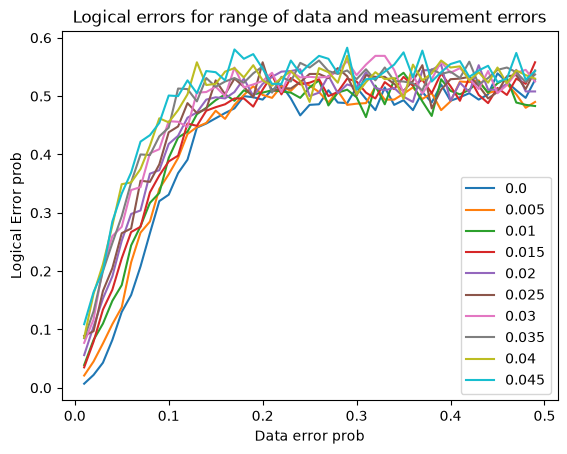
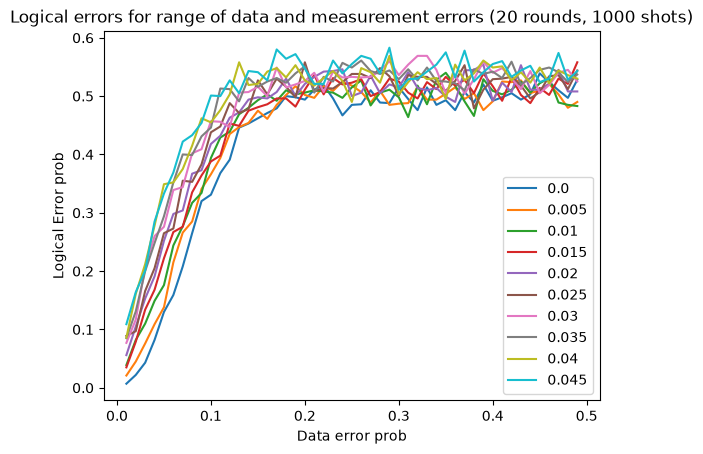
Updating readme

diff --git a/README.md b/README.md
@@ -12,7 +12,7 @@ How does logical error rate change when a decoder's assumed noise model differs 
 - **Stabiliser simulator:** representation and manipulation of stabiliser states and operators.
 - **3-qubit repetition code:** bit-flip noise, syndrome extraction, decoding, and logical-error-rate estimation.
 - **9-qubit Shor code:** stabiliser definitions, physical error tracking, syndrome extraction, and decoding experiments.
-- **Toric code:** stabiliser structure and matching-based decoding, extending the project to a topological quantum error-correcting code.
+- **Toric code:** stabiliser structure and space-time matching-based decoding, extending the project to a topological QECC.
 - **Repeated syndrome extraction:** multiple noisy measurement rounds, detector-event generation, and space-time decoding.
 - **MWPM decoding:** construction of weighted matching graphs and integration with PyMatching.
 
@@ -20,9 +20,7 @@ How does logical error rate change when a decoder's assumed noise model differs 
 
 - Compared the single-round repetition-code logical error rate against the analytical majority-vote result:
 
-  \[
-  P_L = 3p^2 - 2p^3
-  \]
+  $$ P_L = 3p^2 - 2p^3 $$
 
   ![Repetition-code logical error rate](figs/3bit_px.png)
 - Investigated the effects of physical bit-flip noise and syndrome-measurement noise on decoding performance.
@@ -31,6 +29,7 @@ How does logical error rate change when a decoder's assumed noise model differs 
 
 ## In Progress
 
+- Toric code logical error rate estimation
 - Validating repeated-round decoding, including temporal boundaries and noisy syndrome histories.
 - Systematically separating logical failures from residual errors that leave the code space.
 - Benchmarking decoding performance under noise-model mismatch.
@@ -47,4 +46,4 @@ How does logical error rate change when a decoder's assumed noise model differs 
 
 ## Project Direction
 
-The next stage is to establish reliable baselines for each code and decoder, then investigate how decoding performance degrades under noise-model mismatch. Aiming to to build a reproducible benchmark with clearly defined metrics, controlled experiments, and comparisons against established decoding methods.
+The next stage is to establish reliable baselines for each code and decoder, then investigate how decoding performance degrades under noise-model mismatch. Aiming to build a reproducible benchmark with clearly defined metrics, controlled experiments, and comparisons against established decoding methods.
